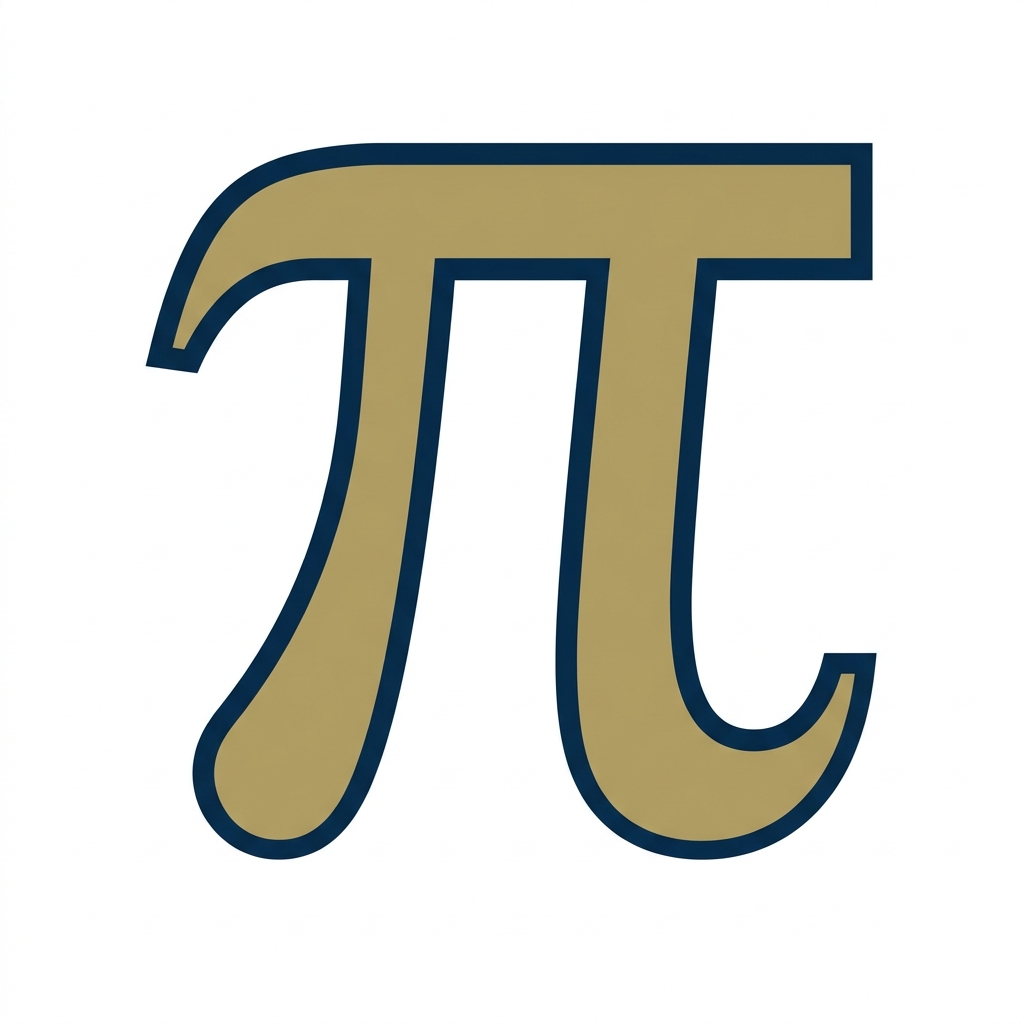
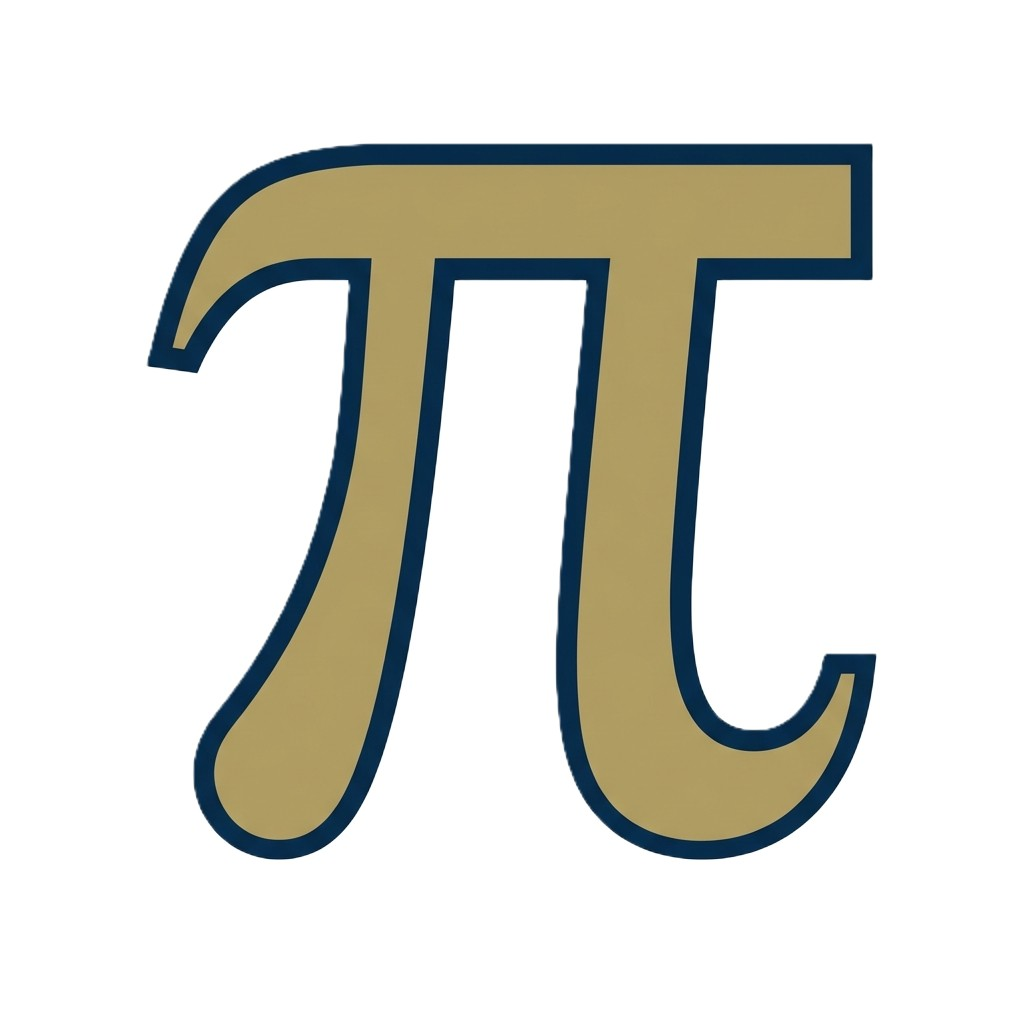
updating the repo with latest RMFMC numerics

diff --git a/experiments/multifidelity/monte-carlo/darcy_benchmark.py b/experiments/multifidelity/monte-carlo/darcy_benchmark.py
@@ -11,18 +11,18 @@ from matplotlib.pyplot import *
 
 # declaring the permeability fields
 HF_DIM, MF_DIM, LF_DIM = 64, 24, 12
-LENGTH_SCALE, KL_TERMS, GRF_MEAN, GRF_STD = 0.2, 64, 0.0, 1.0 
+LENGTH_SCALE, KL_TERMS, GRF_MEAN, GRF_STD = 0.15, 64, 0.0, 1.0 
 
 lf_perm = GRFInput(name='permeability', grid_dim=LF_DIM, length_scale=LENGTH_SCALE, n_kl_terms=KL_TERMS, grf_mean=GRF_MEAN, grf_std=GRF_STD, reference_grid_dim=HF_DIM)
 mf_perm = GRFInput(name='permeability', grid_dim=MF_DIM, length_scale=LENGTH_SCALE, n_kl_terms=KL_TERMS, grf_mean=GRF_MEAN, grf_std=GRF_STD, reference_grid_dim=HF_DIM)
 hf_perm = GRFInput(name='permeability', grid_dim=HF_DIM, length_scale=LENGTH_SCALE, n_kl_terms=KL_TERMS, grf_mean=GRF_MEAN, grf_std=GRF_STD, reference_grid_dim=HF_DIM)
 
 # declaring the darcy field 
-lf_darcy = DarcyFlowEvaluator(name='low-fidelity darcy flow', inputs=[lf_perm], grid_dim=LF_DIM, cost=1.4149e-04, source_term = "figs/Pi.jpg")
+lf_darcy = DarcyFlowEvaluator(name='low-fidelity darcy flow', inputs=[lf_perm], grid_dim=LF_DIM, cost=1.4149e-04, source_term = "figs/Pi2.png")
 
-mf_darcy = DarcyFlowEvaluator(name='medium-fidelity darcy flow', inputs=[mf_perm], grid_dim=MF_DIM, cost=2.8317e-03, source_term = "figs/Pi.jpg")
+mf_darcy = DarcyFlowEvaluator(name='medium-fidelity darcy flow', inputs=[mf_perm], grid_dim=MF_DIM, cost=2.8317e-03, source_term = "figs/Pi2.png")
 
-hf_darcy = DarcyFlowEvaluator(name='medium-fidelity darcy flow', inputs=[hf_perm], grid_dim=HF_DIM, cost=4.4440e-02, source_term = "figs/Pi.jpg")
+hf_darcy = DarcyFlowEvaluator(name='medium-fidelity darcy flow', inputs=[hf_perm], grid_dim=HF_DIM, cost=4.4440e-02, source_term = "figs/Pi2.png")
 
 
 # visualizing the permeability, forcing, and pressure
@@ -40,7 +40,7 @@ rcParams.update(
         "ytick.labelsize": 14,
     }
 )
-seed = 43
+seed = 48
 # 
 perm_eval = hf_perm.sample(jrand.PRNGKey(seed), 1)
 
@@ -59,10 +59,10 @@ fig, axes = subplots(3, 3, figsize=(14,12), dpi = 200)
 
 im_perm = axes[0,0].imshow(perm_hf, cmap = 'viridis', **perm_norm)
 axes[0,0].set_title("Random sample of $\\kappa(\\boldsymbol{x}; \\xi)$")
-axes[0,0].set_ylabel("High-Fidelity", fontsize=14)
+axes[0,0].set_ylabel("High-Fidelity", fontsize=18)
 axes[0,0].set_xticks([]); axes[0,0].set_yticks([])
 
-im_force = axes[0,1].imshow(force_hf, cmap = 'inferno', **force_norm)
+im_force = axes[0,1].imshow(force_hf, cmap = 'GnBu', **force_norm)
 axes[0,1].set_title("Forcing term $f(\\boldsymbol{x})$")
 axes[0,1].set_xticks([]); axes[0,1].set_yticks([])
 
@@ -74,10 +74,10 @@ perm_eval = mf_perm.sample(jrand.PRNGKey(seed), 1)
 press = mf_darcy.evaluate(perm_eval)
 
 axes[1,0].imshow(perm_eval[0].reshape((MF_DIM, MF_DIM)), cmap = 'viridis', **perm_norm)
-axes[1,0].set_ylabel("Medium-Fidelity", fontsize=14)
+axes[1,0].set_ylabel("Medium-Fidelity", fontsize=18)
 axes[1,0].set_xticks([]); axes[1,0].set_yticks([])
 
-axes[1,1].imshow(mf_darcy._f.reshape((MF_DIM, MF_DIM)), cmap = 'inferno', **force_norm)
+axes[1,1].imshow(mf_darcy._f.reshape((MF_DIM, MF_DIM)), cmap = 'GnBu', **force_norm)
 axes[1,1].set_xticks([]); axes[1,1].set_yticks([])
 
 axes[1,2].imshow(press.reshape((MF_DIM, MF_DIM)), cmap = 'rainbow', **press_norm)
@@ -88,10 +88,10 @@ press = lf_darcy.evaluate(perm_eval)
 
 axes[2,0].imshow(perm_eval[0].reshape((LF_DIM, LF_DIM)), cmap = 'viridis', **perm_norm)
 axes[2,0].set_xlabel("$x$")
-axes[2,0].set_ylabel("Low-Fidelity", fontsize=14)
+axes[2,0].set_ylabel("Low-Fidelity", fontsize=18)
 axes[2,0].set_xticks([]); axes[2,0].set_yticks([])
 
-axes[2,1].imshow(lf_darcy._f.reshape((LF_DIM, LF_DIM)), cmap = 'inferno', **force_norm)
+axes[2,1].imshow(lf_darcy._f.reshape((LF_DIM, LF_DIM)), cmap = 'GnBu', **force_norm)
 axes[2,1].set_xlabel("$x$")
 axes[2,1].set_xticks([]); axes[2,1].set_yticks([])
 
@@ -116,15 +116,16 @@ for col, im in enumerate([im_perm, im_force, im_press]):
 
 rmfmc = RMFMC(
     evaluators = [lf_darcy, mf_darcy, hf_darcy], 
-    l2_reg = 1e-6, 
-    rcond = 1e-6
+    l2_reg = 1e-8, 
+    rcond = 1e-8
 )
 
 rmfmc.get_pilots(jrand.PRNGKey(42), n_pilots = 2000, set_costs = True)
 true_covs = rmfmc.covs 
 
-# %% 
-rmfmc.get_pilots(jrand.PRNGKey(42), n_pilots = 100, set_costs = False)
+#%%
+rmfmc.get_pilots(jrand.PRNGKey(43), n_pilots = 200, set_costs = False, noise_std = 1e-14)
+bad_covs = rmfmc.covs 
 rmfmc.get_matrix_coefs() 
 rmfmc.covs = true_covs
 rmfmc._get_info_coefs() 
@@ -132,20 +133,39 @@ rmfmc._get_info_coefs()
 # %%
 budget = 1.0
 
+rmfmc.l2_reg, rmfmc.rcond = 1e-8, 1e-8
+rmfmc.covs = bad_covs
+rmfmc.get_matrix_coefs() 
+
 ms = rmfmc.budget_alloc(budget, warm_start = False)
+rmfmc.covs = true_covs
+rmfmc._get_info_coefs() 
 print(ms)
 
 rmfmc_var = rmfmc.get_entry_variance(ms).reshape(HF_DIM, HF_DIM)
+
+# examining unregularized least squares solve 
+
+rmfmc.l2_reg, rmfmc.rcond = 0.0, 1e-300
+rmfmc.covs = bad_covs
+rmfmc.get_matrix_coefs() 
+bad_ms = rmfmc.budget_alloc(budget, warm_start = False)
+
+
+rmfmc.covs = true_covs
+rmfmc._get_info_coefs() 
+unreg_var = rmfmc.get_entry_variance(ms).reshape(HF_DIM, HF_DIM)
+
+
 
 hfmc = HFMC(
     evaluators = [lf_darcy, hf_darcy]
 )
 
 # copying over covariances so don't have to recompute
-hfmc.covs = rmfmc.covs 
+hfmc.covs = true_covs 
 
 ms = hfmc.budget_alloc(budget)
-print(ms)
 
 hfmc_var = hfmc.get_entry_variance(ms).reshape(HF_DIM, HF_DIM)
 
@@ -153,19 +173,32 @@ hfmc_var = hfmc.get_entry_variance(ms).reshape(HF_DIM, HF_DIM)
 
 figure(figsize=(16,4))
 subplot(1,3,1)
-imshow(rmfmc_var, cmap = "Oranges", vmin=0.0, vmax = hfmc_var.max())
+imshow(jnp.diag(true_covs[-1][-1]).reshape(HF_DIM, HF_DIM) / jnp.diag(true_covs[-1][-1]).max(), cmap = "Oranges", vmin=0.0, vmax = 1.0)
 colorbar()
-title("R-MFMC Variance")
+title("High-Fidelity Variance")
 xticks([]); yticks([])
 
 subplot(1,3,2)
-imshow(hfmc_var, cmap = "Oranges", vmin=0.0, vmax = hfmc_var.max())
+imshow(hfmc_var / unreg_var, cmap = "YlGnBu", vmin=0.0, vmax = (hfmc_var / rmfmc_var).max())
 colorbar()
-title("HFMC Variance")
+title("Unregularized \nVariance Reduction")
 xticks([]); yticks([])
 
 subplot(1,3,3)
 imshow(hfmc_var / rmfmc_var, cmap = "YlGnBu", vmin=0.0, vmax = (hfmc_var / rmfmc_var).max())
 colorbar()
-title("Variance Reduction")
+title("Regularized \nVariance Reduction")
 xticks([]); yticks([])
+
+# %% making the high-fidelity covariance poorly scaled
+
+U, S, _ = np.linalg.svd(jnp.block([row[0:2] for row in rmfmc.covs[0:2]]), full_matrices = True)
+
+S[S <= 2e-16] = 2e-16
+
+# %%
+figure() 
+semilogy(S / S[0])
+title("Singular value decay of high-fidelity variance")
+xlabel("Singular value index")
+ylabel("Relative singular values $\\sigma_i / \\sigma_0$")

diff --git a/src/elyza/core/evaluator.py b/src/elyza/core/evaluator.py
@@ -44,7 +44,7 @@ class Evaluator(BaseModel):
     '''
     input_vals is a list of arrays of inputs assumed to be valid for the evaluator, where the shape of each list item is (# of data points, input dimension).
     '''
-    def evaluate(self, *input_vals : list[jax.Array]):
+    def evaluate(self, *input_vals):
         return vmap(self.evaluation_func, in_axes=[0]*len(input_vals))(*input_vals).block_until_ready().reshape(-1,self.output_dim)
 
     def print(self):
@@ -62,14 +62,15 @@ class Evaluator(BaseModel):
         assert cost > 0.0, "cost must be positive"
         self.cost = cost 
 
-    def evaluate_timed(self, *input_vals : list[jax.Array], set_cost = True):
+    def evaluate_timed(self, *input_vals : list[jax.Array], set_cost = False):
         n_points = input_vals[0].shape[0]
         start_time = time.time()
         result = self.evaluate(*input_vals)
         result.block_until_ready() # JAX dispatches asynchronously, so wait for the actual computation to finish before stopping the clock
         end_time = time.time()
+        print(self.name, ":")
         print("Total time: %.4e (s)" % (end_time - start_time))
-        print("Per-evaluation time: %.4e (s)" % ((end_time - start_time) / n_points))
+        print("Per-evaluation time: %.4e (s)\n" % ((end_time - start_time) / n_points))
         if set_cost: 
             self.cost = (end_time - start_time) / n_points
         return result 

diff --git a/src/elyza/multifidelity/montecarlo.py b/src/elyza/multifidelity/montecarlo.py
@@ -23,7 +23,7 @@ class MultifidelityMonteCarlo(BaseModel):
     '''
     a function for storing and computing pilot 
     '''
-    def get_pilots(self, key, n_pilots:int, set_costs = False): 
+    def get_pilots(self, key, n_pilots:int, set_costs = False, noise_std = 0.0): 
         pilot_samples = []
 
         # iterating through and computing random pilot samples of each evaluator
@@ -35,6 +35,10 @@ class MultifidelityMonteCarlo(BaseModel):
 
             # timing each evaluator on the input samples
             pilot_samples.append(evaluator.evaluate_timed(*input_vals, set_cost = set_costs))
+
+            # adding random noise if desired (more for experimentation)
+            if noise_std != 0.0: 
+                pilot_samples[-1] += noise_std * jrand.normal(key, shape = pilot_samples[-1].shape)
 
         # computing the covariance for each fidelity pair
         covs, corrs = [], []  

diff --git a/src/elyza/benchmarks/pde/darcy2d.py b/src/elyza/benchmarks/pde/darcy2d.py
@@ -20,7 +20,9 @@ def build_image_source(path, grid_dim, inflation = 1.0):
     image = image[:,:,:3].mean(axis=2).astype(np.float64)
     image = image / np.max(image)
 
-    image[image < 1e-1] = -0.5
+    # negating and scaling to [-1,1] 
+    image = -image+1
+
 
     image *= inflation 
 
@@ -34,6 +36,11 @@ def build_image_source(path, grid_dim, inflation = 1.0):
     # ---------------------------------------------------------------------
 
     image = ndimage.zoom(image, (grid_dim/height, grid_dim/width), order=3)
+
+
+    image[image <= 0] = 0.0
+    image *= 2 
+    image = 1/(1+np.exp(-image))
 
     # zooming to make square 
     return image

diff --git a/experiments/multifidelity/monte-carlo/legendre_benchmark.py b/experiments/multifidelity/monte-carlo/legendre_benchmark.py
@@ -195,9 +195,9 @@ markers = ['.', "D", "P", '*', 's', "^", ]
 # coefficients), while HFMC/MFMC/MLMC each get a distinct matplotlib default color
 colors = ['#7f7f7f', '#2ca02c', '#ff7f0e', '#08306b', '#4292c6', '#9ecae1']
 
-figure(figsize=(16,6), dpi = 200) 
+figure(figsize=(12,7), dpi = 300) 
 for i in range(estimator_vars.shape[0]):
-    semilogx(budgets, estimator_vars[i], linestyle = 'dashed', marker = markers[i], label = labels[i], markersize=12, color = colors[i])
+    loglog(budgets, estimator_vars[i], linestyle = 'dashed', marker = markers[i], label = labels[i], markersize=12, color = colors[i])
 
 legend() 
 xlabel("Computational budget")
